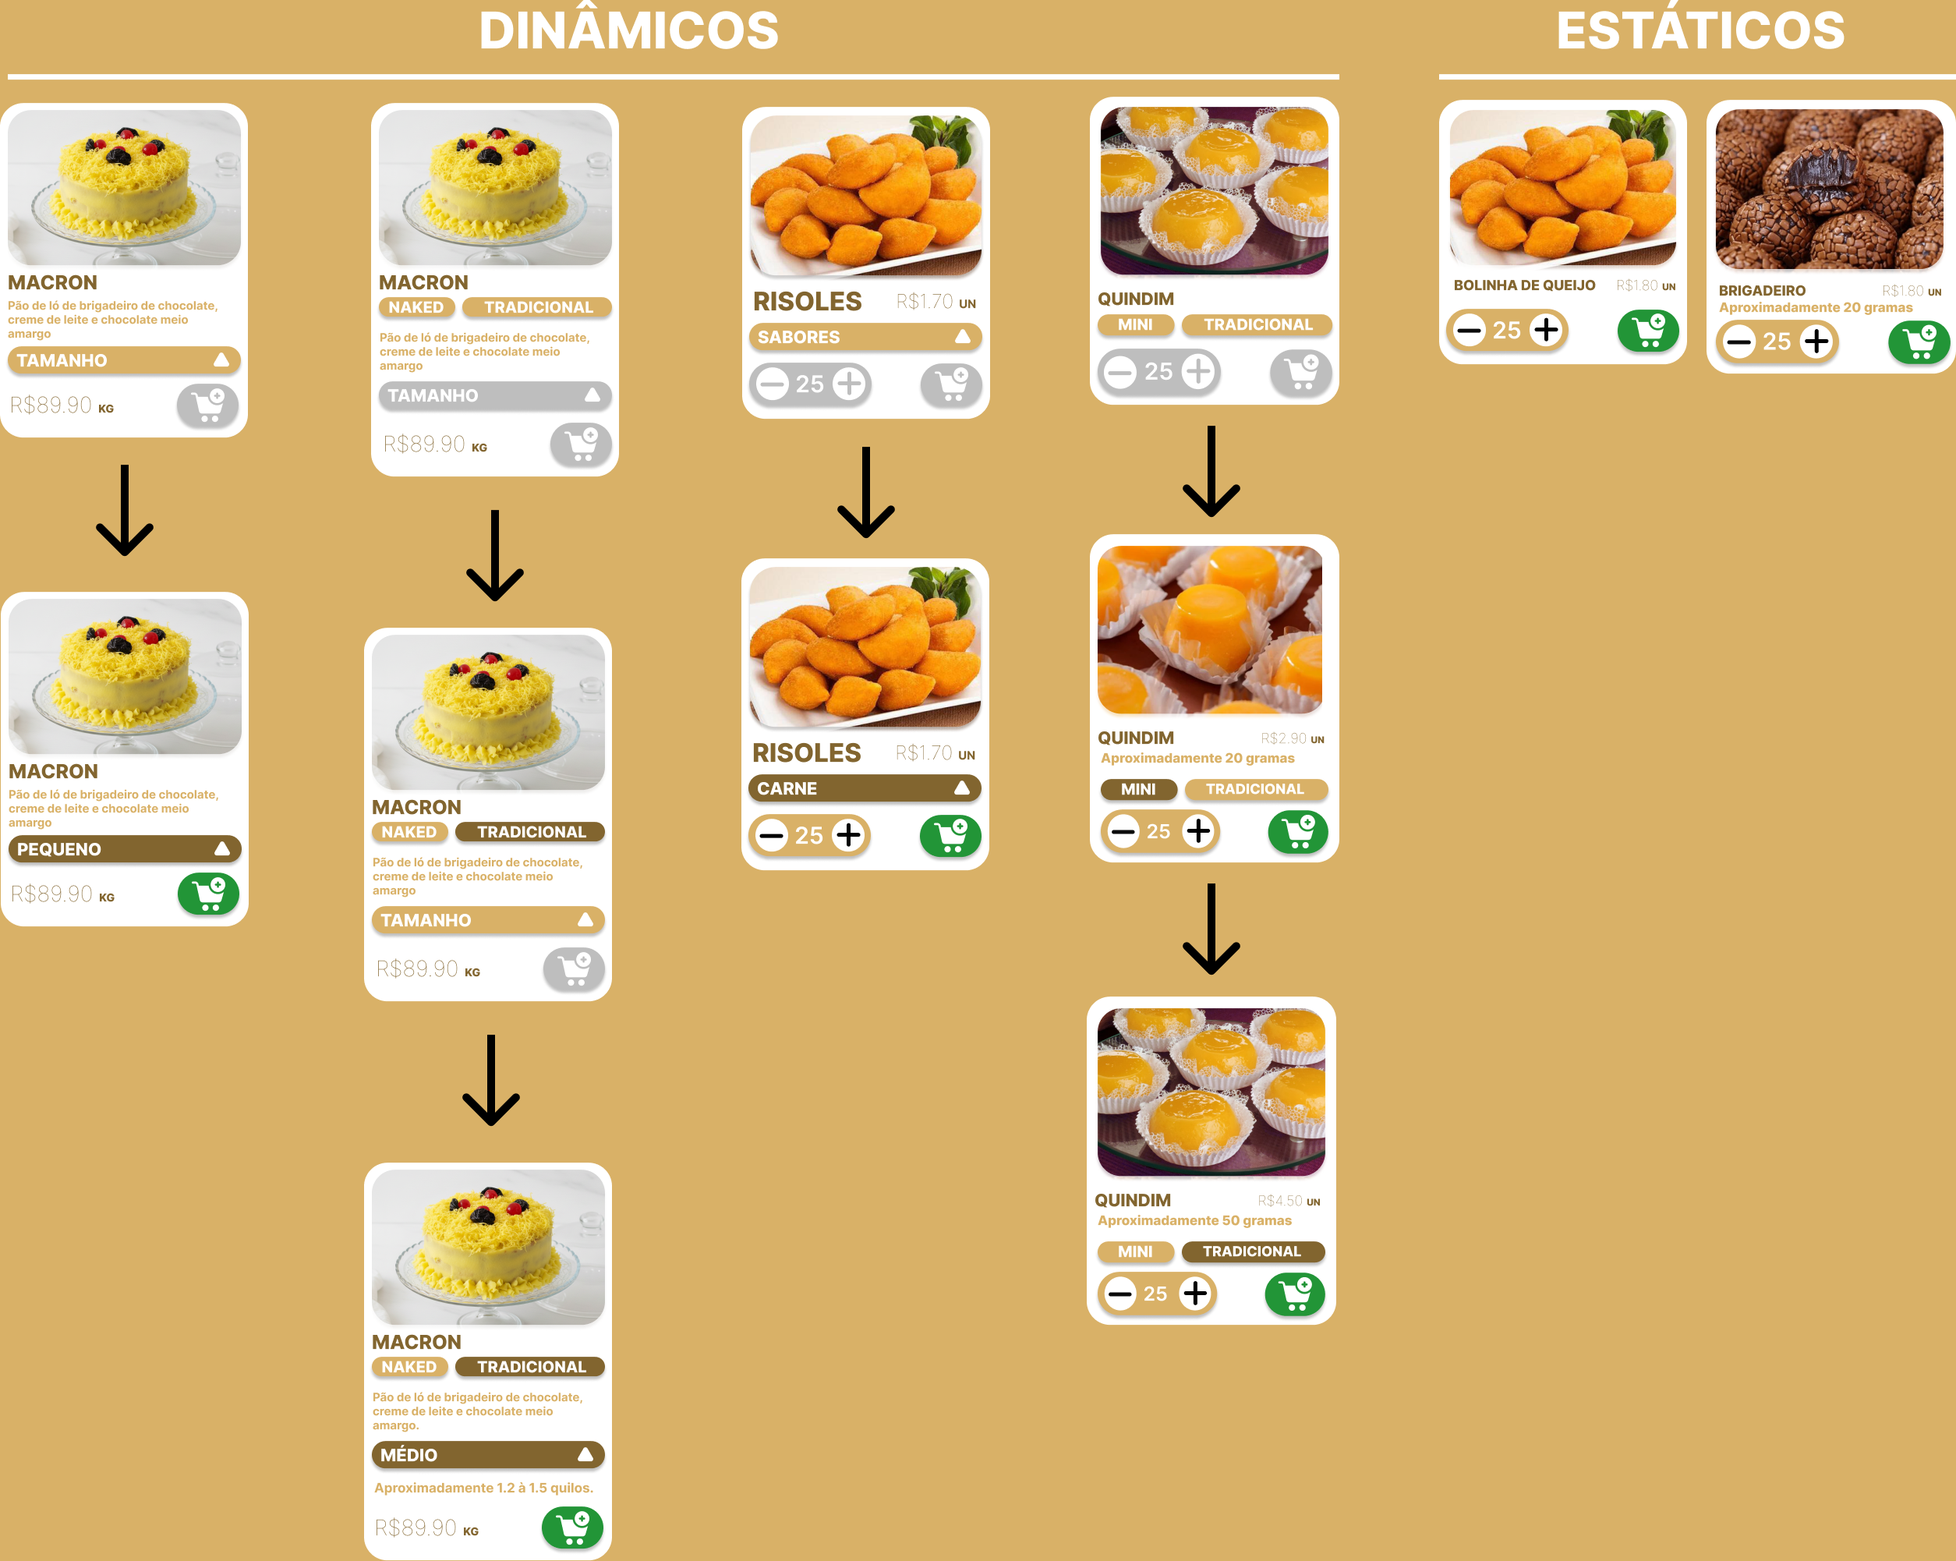
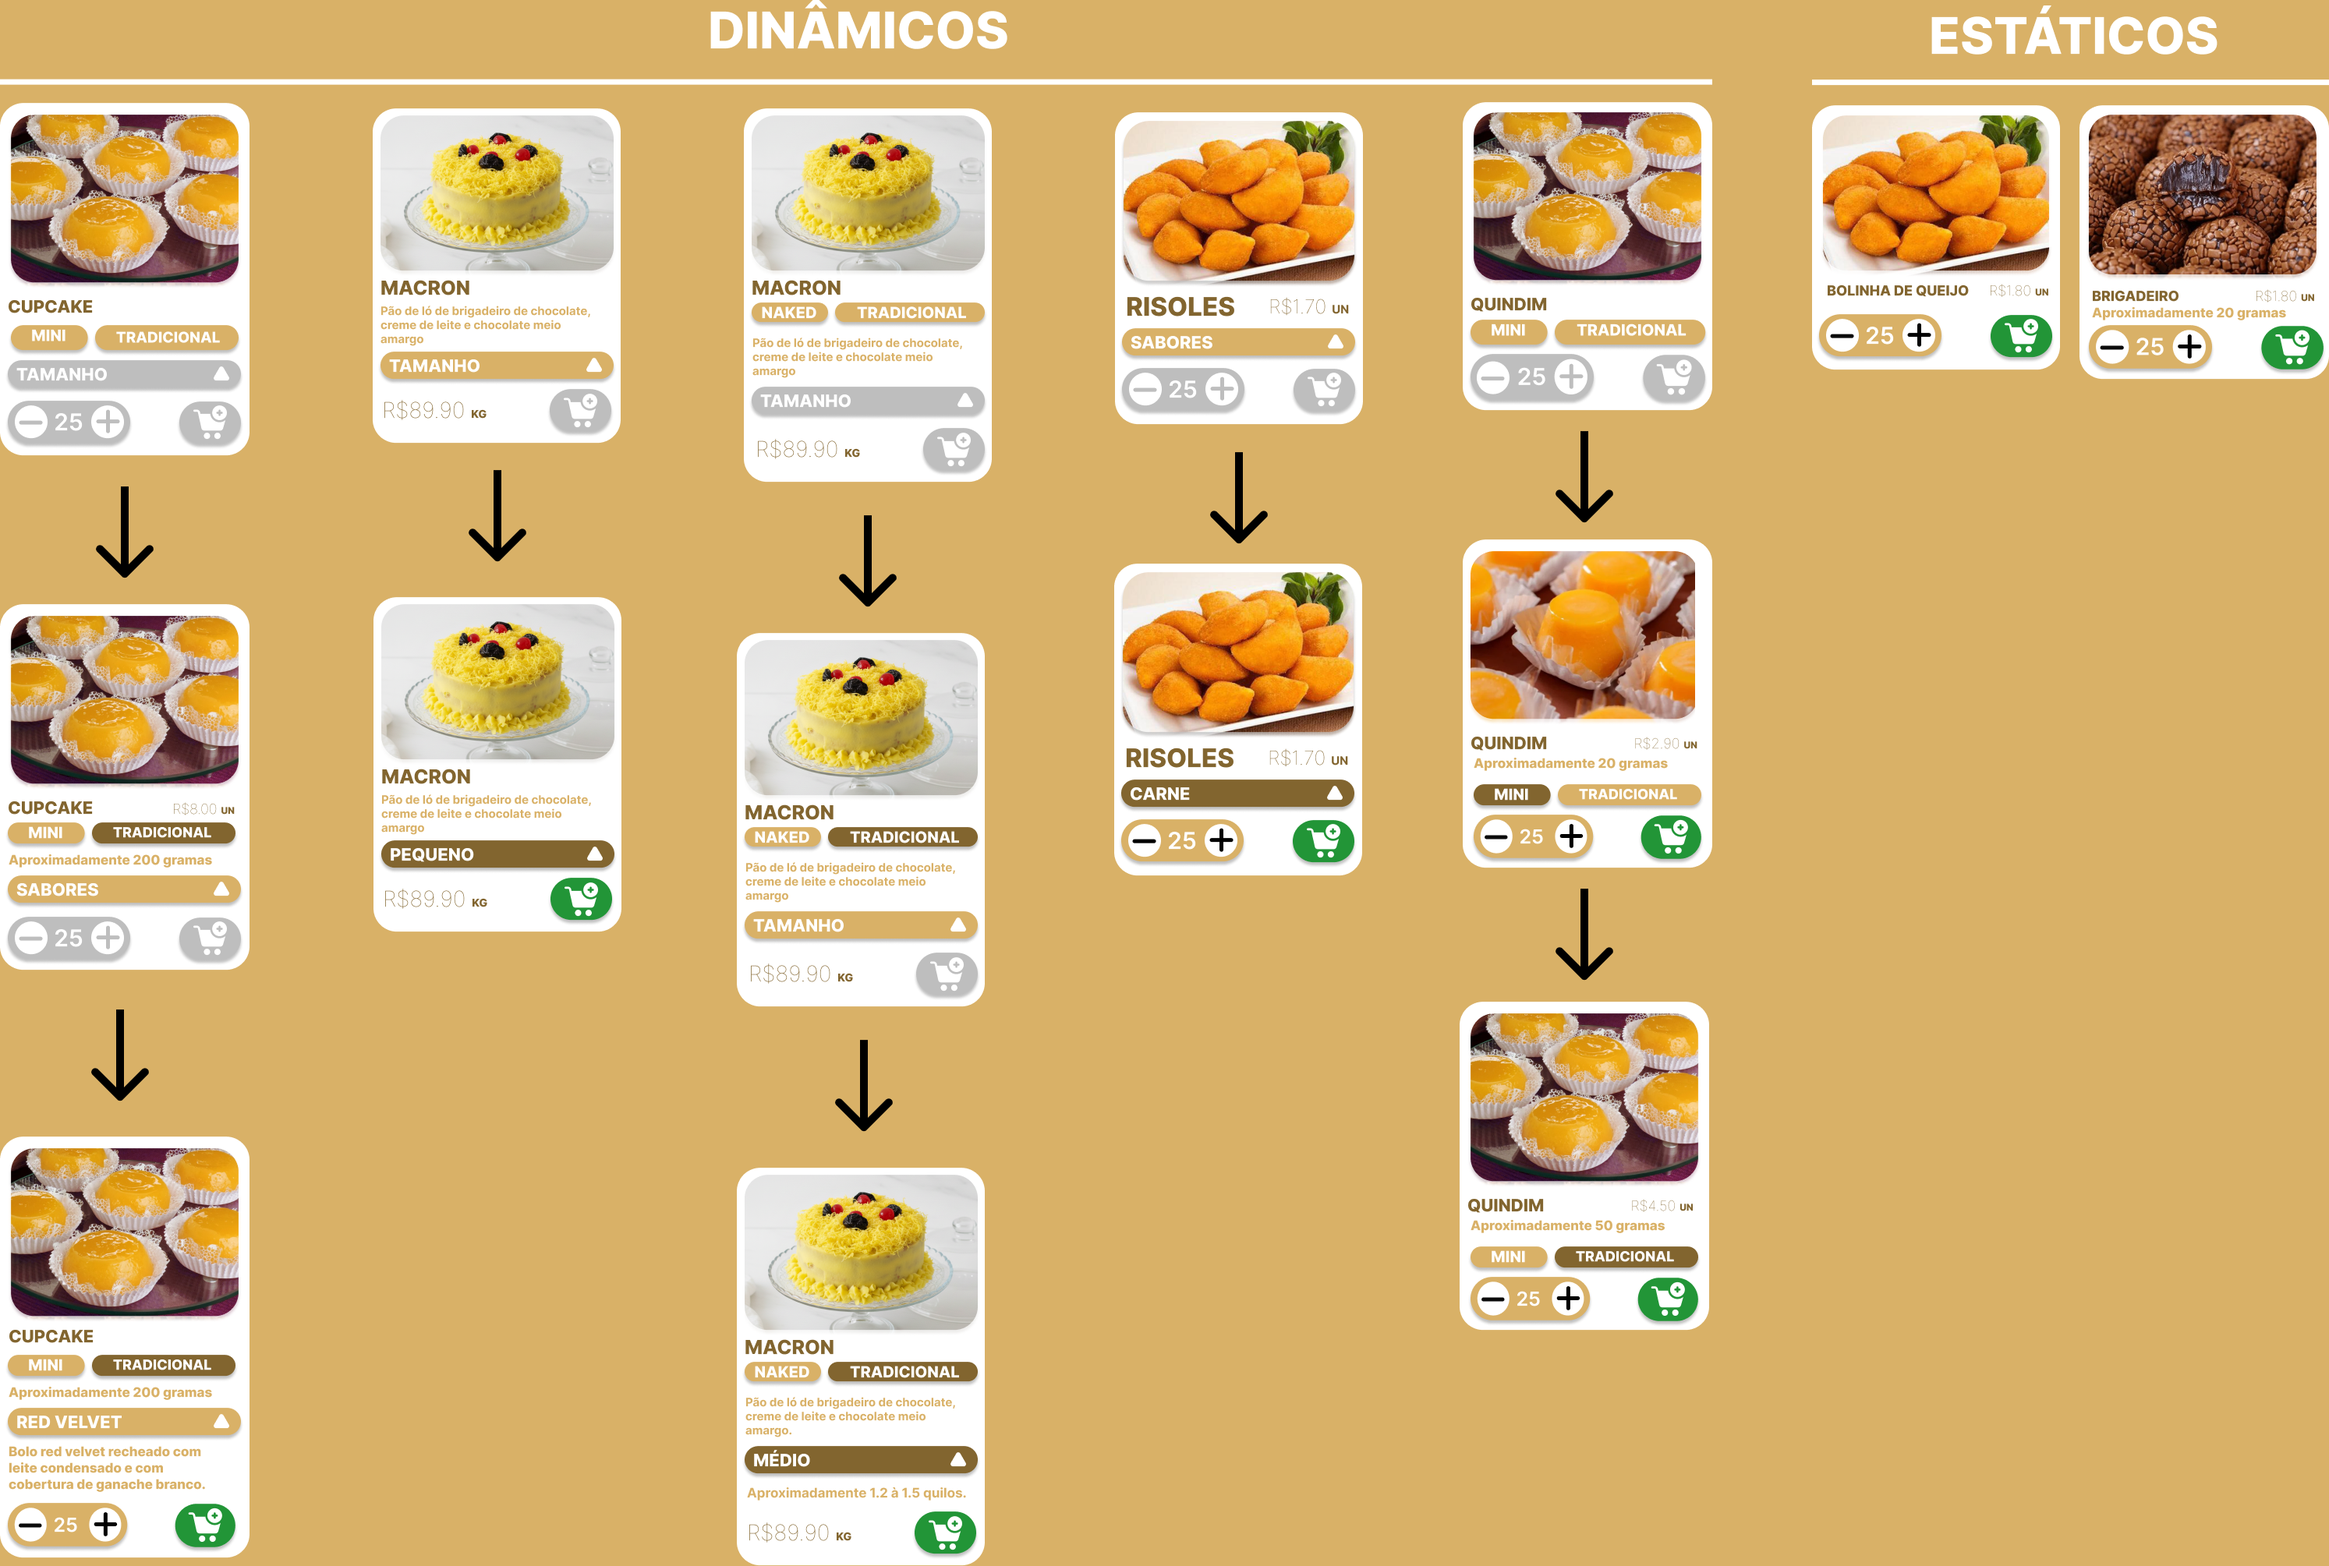
Add a new card model

diff --git a/web-menu.html b/web-menu.html
@@ -115,7 +115,7 @@
                                 <button type="button" class="increase-quantity" aria-label="Aumentar quantidade"><img src="/img/icons/plus.png"></button>
                             </div>
 
-                            <button type="button" class="add-to-cart-button" ><img src="/img/icons/add-to-cart.png"></button>
+                            <button type="button" class="add-to-cart-button" ><img src="/img/icons/add-to-cart.svg"></button>
                             
                         </div>
                     </div>
@@ -143,7 +143,7 @@
                                 <button type="button" class="increase-quantity" aria-label="Aumentar quantidade"><img src="/img/icons/plus.png"></button>
                             </div>
 
-                            <button type="button" class="add-to-cart-button" ><img src="/img/icons/add-to-cart.png"></button>
+                            <button type="button" class="add-to-cart-button" ><img src="/img/icons/add-to-cart.svg"></button>
                         </div>
                         
                     </div>
@@ -171,7 +171,7 @@
                                 <button type="button" class="increase-quantity" aria-label="Aumentar quantidade"><img src="/img/icons/plus.png"></button>
                             </div>
 
-                            <button type="button" class="add-to-cart-button" ><img src="/img/icons/add-to-cart.png"></button>
+                            <button type="button" class="add-to-cart-button" ><img src="/img/icons/add-to-cart.svg"></button>
                         </div>
                         
                     </div>
@@ -199,7 +199,7 @@
                                 <button type="button" class="increase-quantity" aria-label="Aumentar quantidade"><img src="/img/icons/plus.png"></button>
                             </div>
 
-                            <button type="button" class="add-to-cart-button" ><img src="/img/icons/add-to-cart.png"></button>
+                            <button type="button" class="add-to-cart-button" ><img src="/img/icons/add-to-cart.svg"></button>
                         </div>
             
                     </div>
@@ -227,7 +227,7 @@
                                 <button type="button" class="increase-quantity" aria-label="Aumentar quantidade"><img src="/img/icons/plus.png"></button>
                             </div>
 
-                            <button type="button" class="add-to-cart-button" ><img src="/img/icons/add-to-cart.png"></button>
+                            <button type="button" class="add-to-cart-button" ><img src="/img/icons/add-to-cart.svg"></button>
                         </div>
                     </div>
 
@@ -254,7 +254,7 @@
                                 <button type="button" class="increase-quantity" aria-label="Aumentar quantidade"><img src="/img/icons/plus.png"></button>
                             </div>
 
-                            <button type="button" class="add-to-cart-button" ><img src="/img/icons/add-to-cart.png"></button>
+                            <button type="button" class="add-to-cart-button" ><img src="/img/icons/add-to-cart.svg"></button>
                         </div>
                     </div>
 
@@ -281,7 +281,7 @@
                                 <button type="button" class="increase-quantity" aria-label="Aumentar quantidade"><img src="/img/icons/plus.png"></button>
                             </div>
 
-                            <button type="button" class="add-to-cart-button" ><img src="/img/icons/add-to-cart.png"></button>
+                            <button type="button" class="add-to-cart-button" ><img src="/img/icons/add-to-cart.svg"></button>
                         </div>
                     </div>
 
@@ -308,7 +308,7 @@
                                 <button type="button" class="increase-quantity" aria-label="Aumentar quantidade"><img src="/img/icons/plus.png"></button>
                             </div>
 
-                            <button type="button" class="add-to-cart-button" ><img src="/img/icons/add-to-cart.png"></button>
+                            <button type="button" class="add-to-cart-button" ><img src="/img/icons/add-to-cart.svg"></button>
                         </div>
                     </div>
 
@@ -335,7 +335,38 @@
                                 <button type="button" class="increase-quantity" aria-label="Aumentar quantidade"><img src="/img/icons/plus.png"></button>
                             </div>
 
-                            <button type="button" class="add-to-cart-button" ><img src="/img/icons/add-to-cart.png"></button>
+                            <button type="button" class="add-to-cart-button" ><img src="/img/icons/add-to-cart.svg"></button>
+                        </div>
+                    </div>
+
+                    <!--A card-type-02 necessida o uso de JS para esconder/revelar as informações do produto com base no tamanho selecionado-->
+                    <div id="quindim" class="product-card card-type-02">
+                        <div class="card-image-container"><img src="" alt="Quindim"></div>
+
+                        <div class="card-text-container">
+                            <div class="name-price-row">
+                                <h3 class="product-name">QUINDIM</h3>
+                                <div class="price-measure">
+                                    <span class="product-price">1</span>
+                                    <span class="product-measure">UN</span>
+                                </div>                
+                            </div>
+                            <p class="product-info">info</p>  
+                        </div>
+
+                        <div class="card-size-selector-container">
+                            <button class="mini-size-button">MINI</button>
+                            <button class="trad-size-button">TRADICIONAL</button>
+                        </div>
+
+                        <div class="card-actions-container">
+                            <div class="quantity-selector">
+                                <button type="button" class="decrease-quantity" aria-label="Diminuir quantidade"><img src="/img/icons/minus.png"></button>
+                                <span class="quantity-value">25</span>
+                                <button type="button" class="increase-quantity" aria-label="Aumentar quantidade"><img src="/img/icons/plus.png"></button>
+                            </div>
+
+                            <button type="button" class="add-to-cart-button" ><img src="/img/icons/add-to-cart.svg"></button>
                         </div>
                     </div>
                     

diff --git a/styles.css b/styles.css
@@ -423,20 +423,102 @@ header{
     
 }
 
+.card-size-selector-container{
+    display: grid;
+    grid-template-columns: auto auto;
+}
 
+.card-size-selector-container button{
+    background-color: var(--color08);
+    text-decoration: none;
+    border: none;
+    text-align: center;
+    margin: 1rem;
+    margin-bottom: 0px;
+    border-radius: 20px;
+    box-shadow: 0 7px 10px rgba(0, 0, 0, 0.1);
+    height: 2.5rem;
+    cursor: pointer;
 
+    font-family: 'LouisGeorgeCafe', sans-serif;
+    font-weight: bold;
+    font-style: normal;
+    font-size: 1.5rem;
+    color: white;
+}
 
 /*================CARD-TYPE-01=============*/
 
 .card-type-01{
     display: grid;
-    grid-template-rows: auto auto auto;
-    
+    grid-template-rows: auto auto auto;   
+}
+
+/*================CARD-TYPE-02=============*/
+
+
+/* DISABLE VIEW*/
+
+.card-type-02{
+    display: grid;
+    grid-template-rows: auto auto auto auto;
+}
+
+.card-type-02 .product-measure,
+.card-type-02 .product-info {
+    display: none;
+}
+
+.card-type-02 .quantity-selector,
+.card-type-02 .add-to-cart-button{
+    background-color: #BEBEBE;
+}
+
+.card-type-02 .product-price{
+    display: none;
+}
+
+.card-type-02 .quantity-selector button {
+    cursor: not-allowed;
+    pointer-events: none;
+}
+
+.card-type-02 .add-to-cart-button{
+    cursor: not-allowed;
+    pointer-events: none;
+}
+
+.card-type-02 .quantity-selector img{
+    opacity: 0.3;
 }
 
 
+/*ENABLE VIEW, USING "size-selected" tag*/
 
+.card-type-02.size-selected .product-measure{
+    display: block;
+}
 
+.card-type-02.size-selected .product-info{
+    display: block;
+}
+
+.card-type-02.size-selected .add-to-cart-button{
+    background-color: #229537;
+}
+
+.card-type-02.size-selected .quantity-selector{
+    background-color: var(--color08);
+
+}
+
+.card-type-02.size-selected .quantity-selector img {
+    opacity: 1;
+}
+
+.card-type-02.size-selected .product-price{
+    display: inline;
+}
 
 /*===================================================
             TABLET VIEW: min-width: 1024px.
